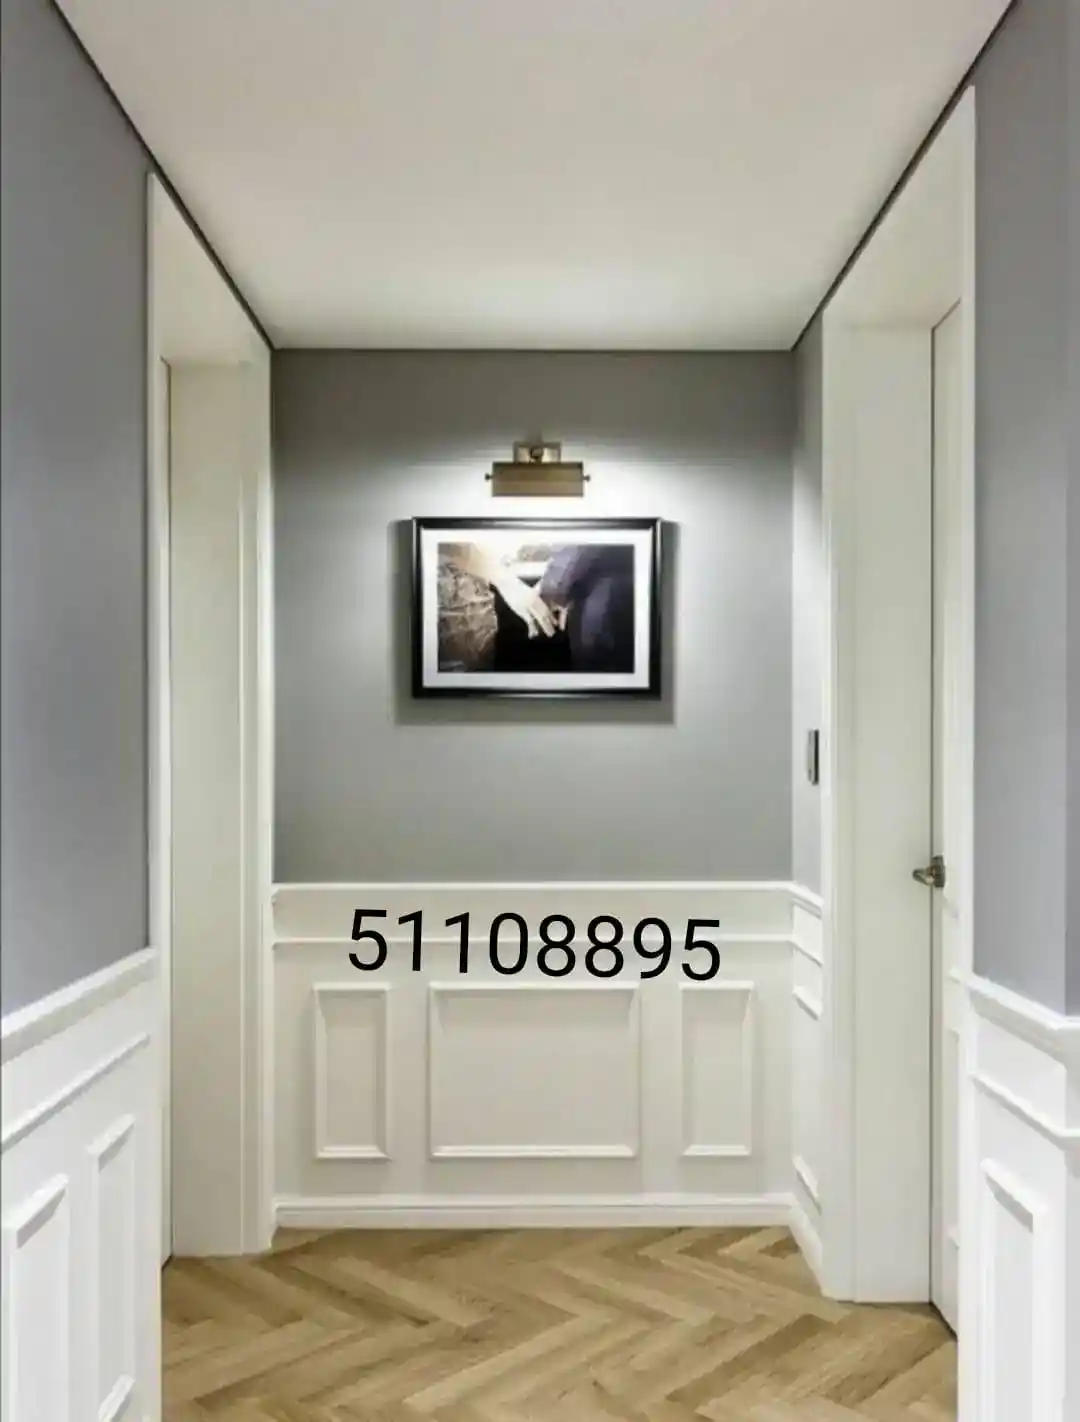
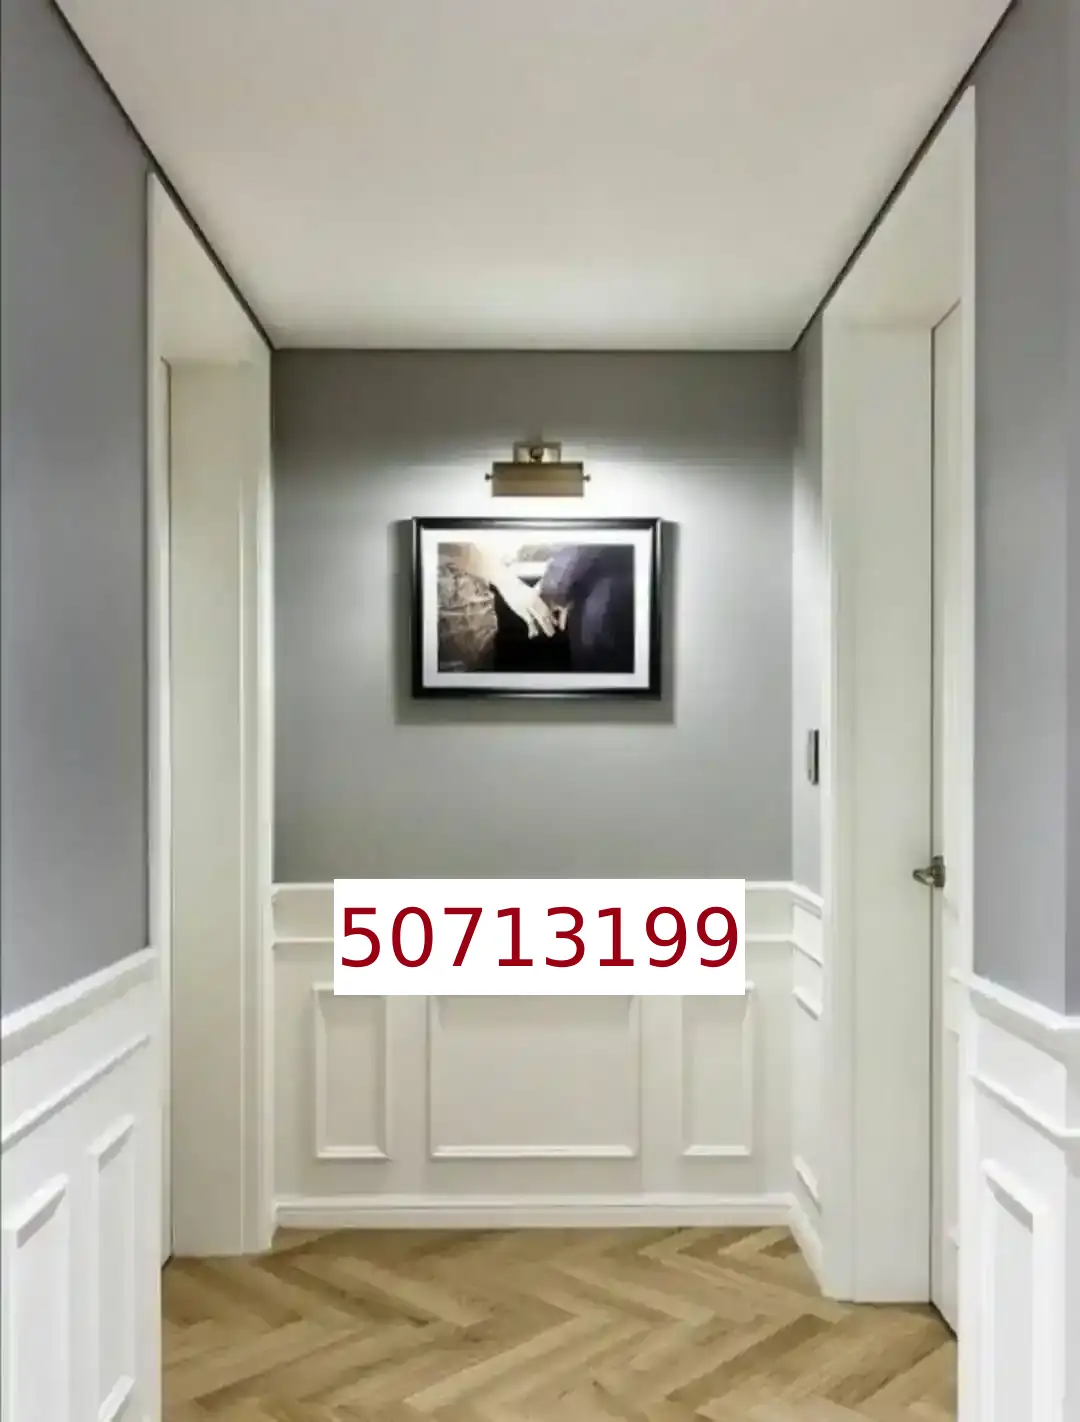
updates

Changed region(s): [[0.3056, 0.6188, 0.7028, 0.7117]]

diff --git a/components/about.tsx b/components/about.tsx
@@ -18,9 +18,17 @@ const AboutUs = () => {
                     <li>خدمات سريعة بأسعار تنافسية.</li>
                     <li>استخدام أصباغ ودهانات صديقة للبيئة.</li>
                 </ul>
-                <a href="tel:50713199"
-                    className="inline-block bg-yellow-500 text-white font-bold py-2 px-6 rounded-lg hover:bg-yellow-600 transition">
-                    📞 اتصل الآن: 50713199
+                <a href="tel:+96550713199"
+                    className="
+                    inline-block
+                     bg-secondary
+                      text-white
+                       font-bold 
+                       py-2
+                        px-6
+                        hover:bg-secondary/90
+                         rounded-lg  transition">
+                    اتصل الآن: 50713199
                 </a>
             </div>
         </section>

diff --git a/app/layout.tsx b/app/layout.tsx
@@ -1,9 +1,11 @@
 import type React from "react"
 import type { Metadata } from "next"
 import "./globals.css"
-import ThemeProv from "@/context/ThemeProv"
 import allLinks from "@/lib/links.json"
 import allArticles from "@/lib/articles.json"
+import dynamic from "next/dynamic"
+
+const ThemeProv = dynamic(() => import("@/context/ThemeProv"))
 
 export const metadata: Metadata = {
   title: "صباغ الكويت ✔ شاطر ورخيص - أبو يوسف 50713199",

diff --git a/components/website-layout.tsx b/components/website-layout.tsx
@@ -1,4 +1,3 @@
-import React from 'react'
 import dynamic from "next/dynamic"
 const Header = dynamic(() => import('@/components/header'))
 const Footer = dynamic(() => import('@/components/footer'))
